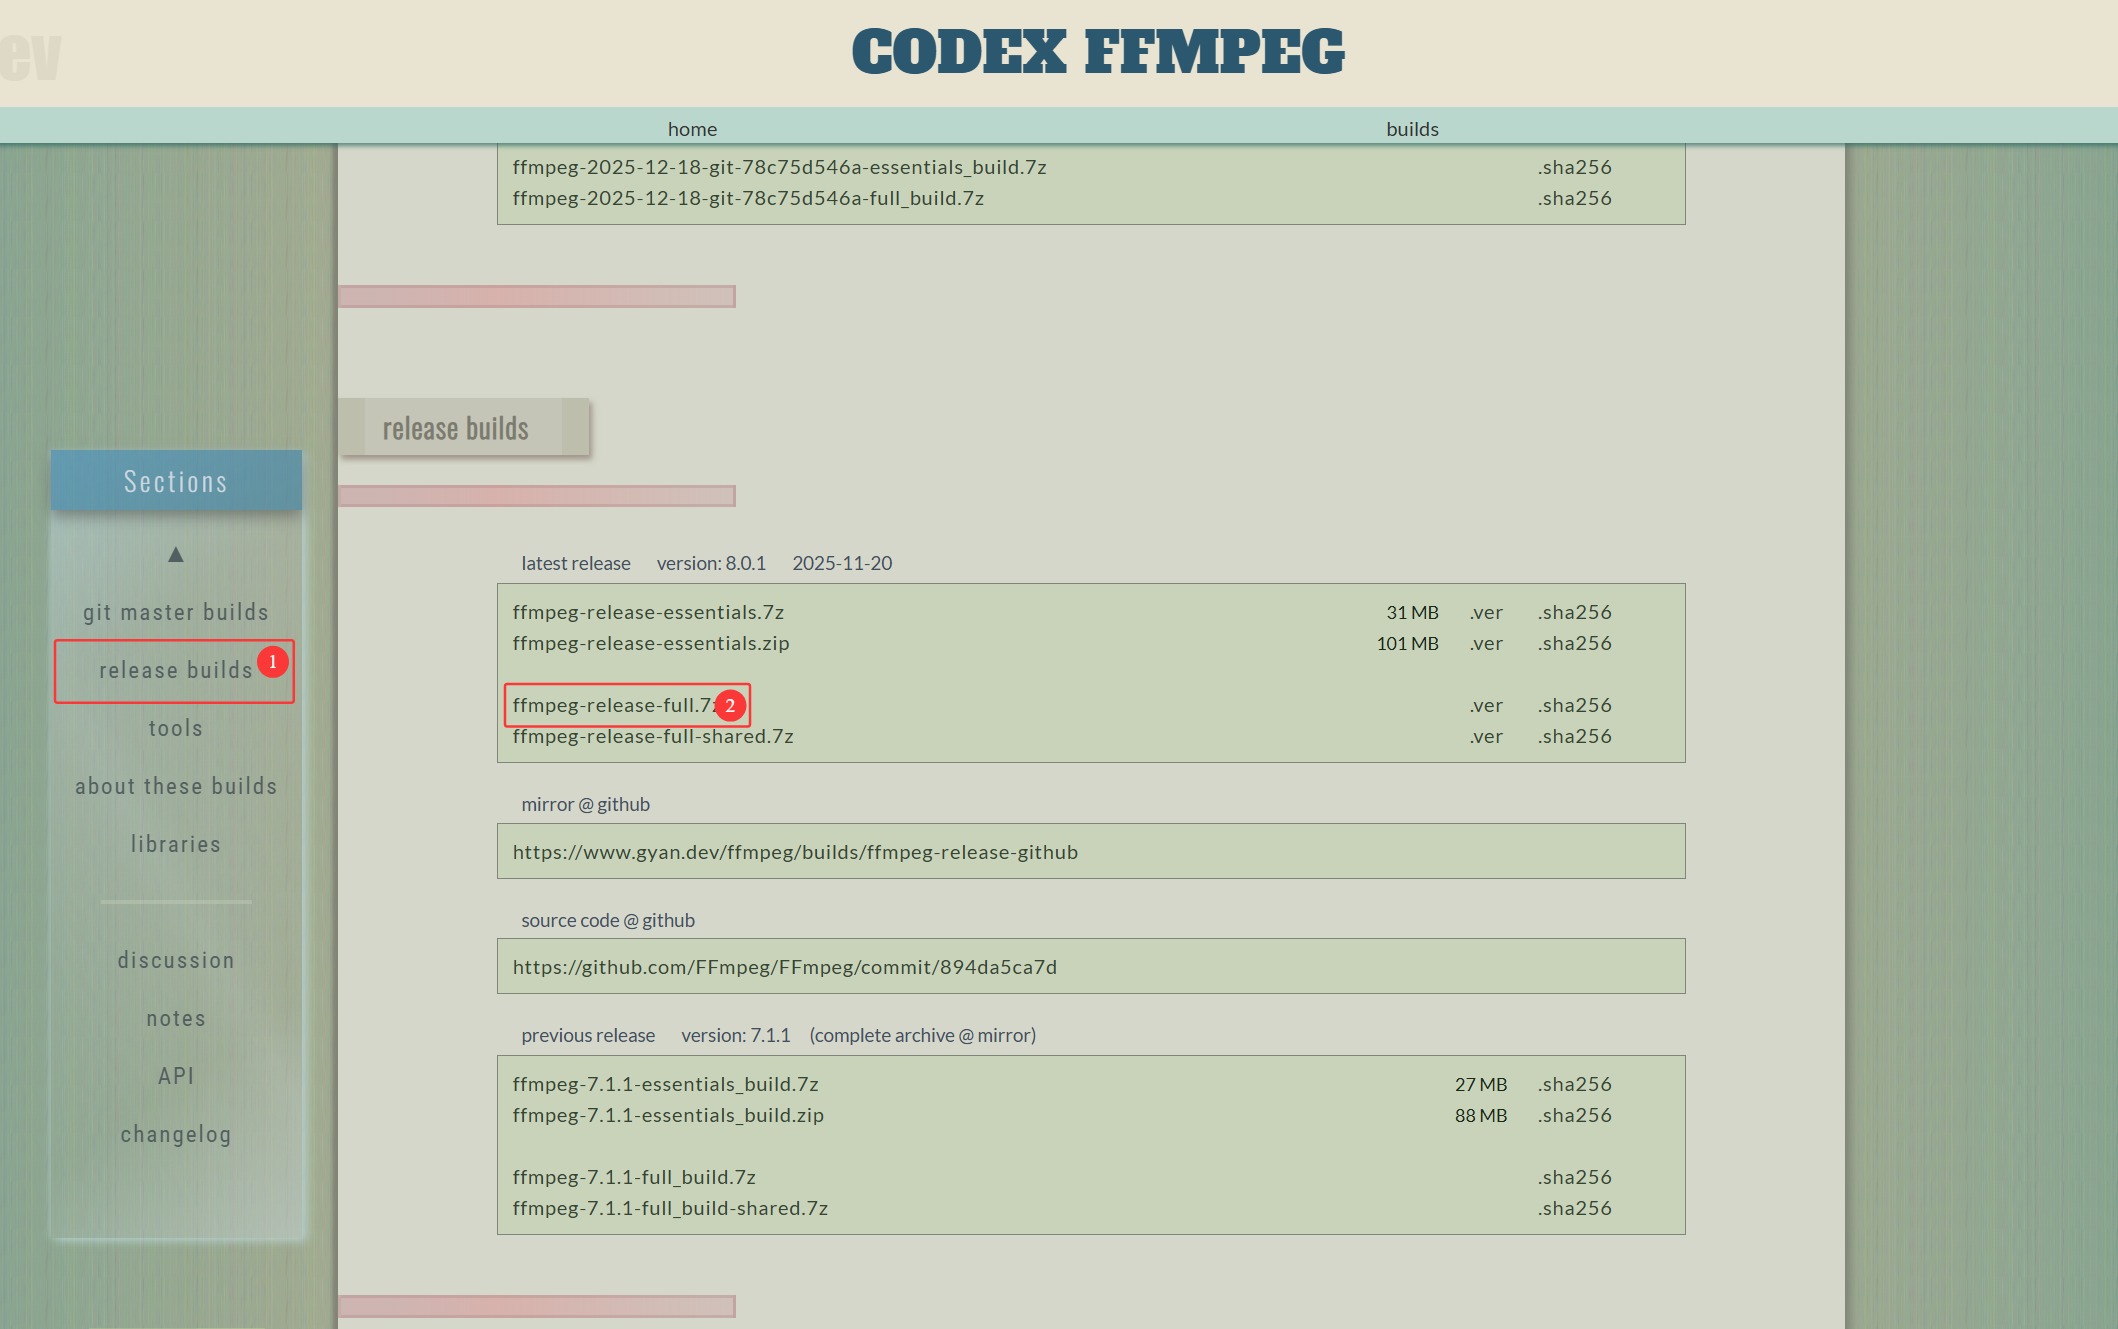
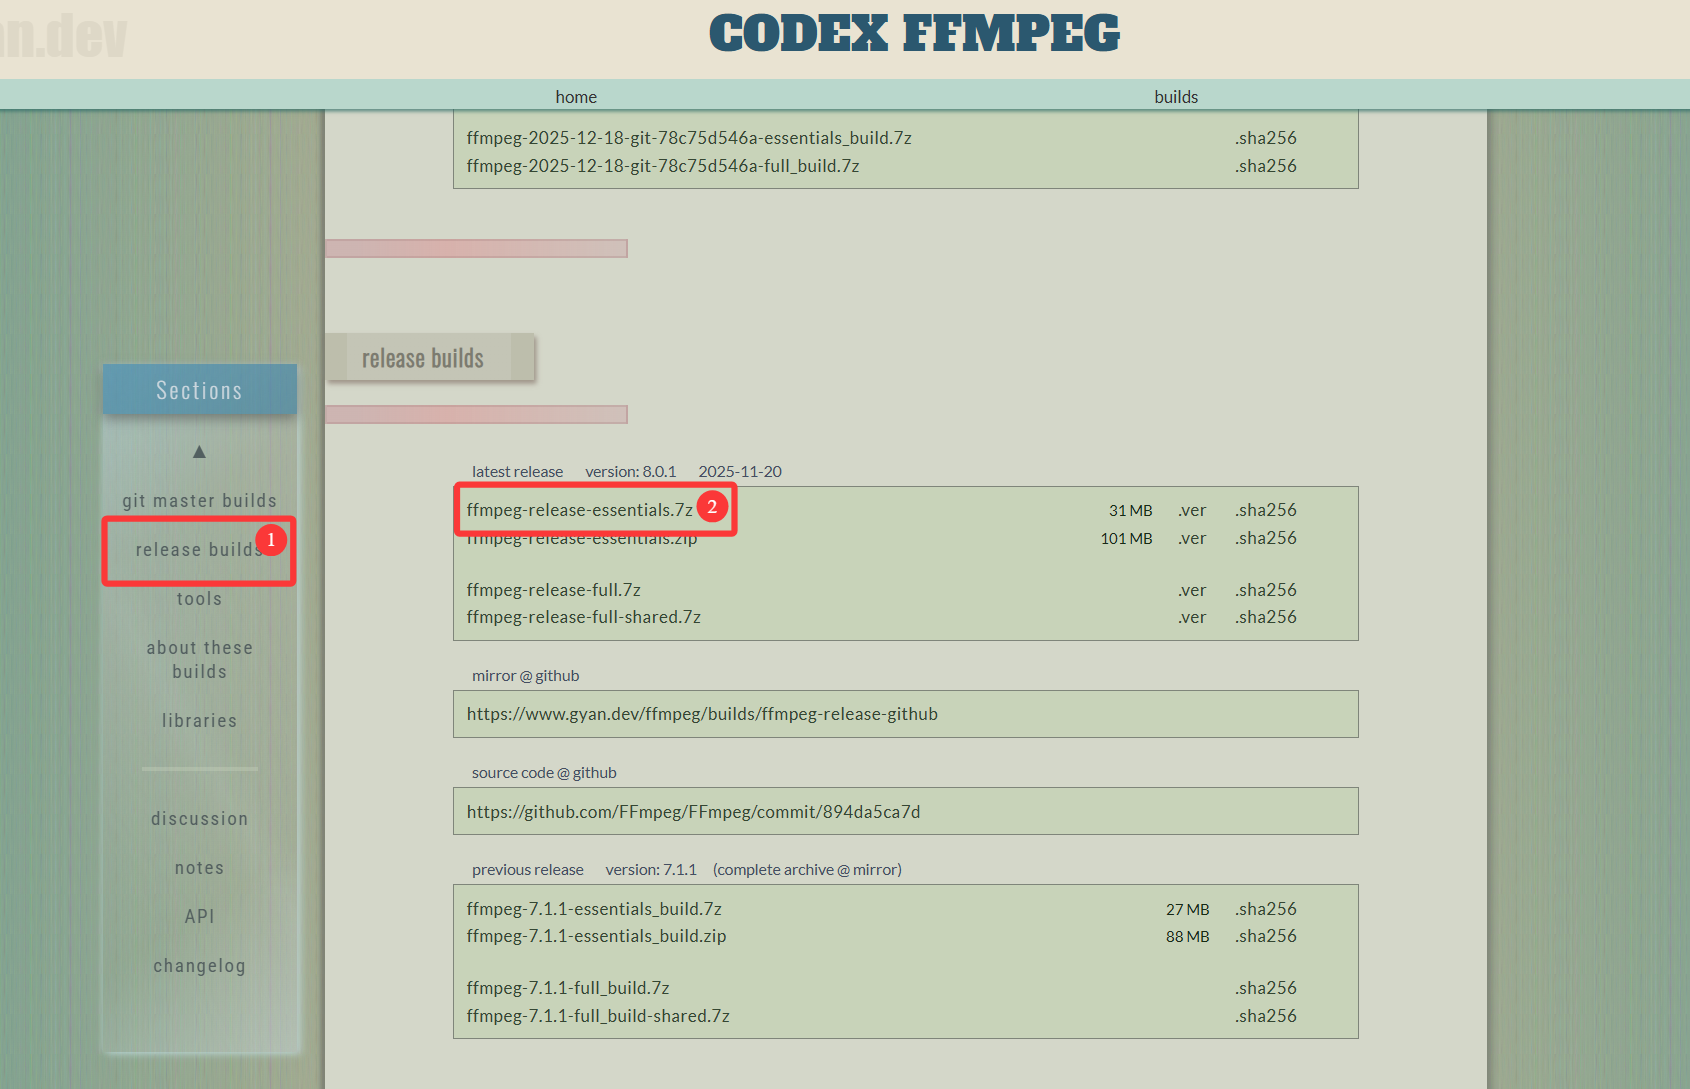
update：FFmpegGuide

diff --git a/doc/latest_doc/FFmpegInstallGuide.md b/doc/latest_doc/FFmpegInstallGuide.md
@@ -10,7 +10,7 @@
 
 	2.在页面中找到 **release builds** 区域。
 
-	3.点击下载以下文件：**ffmpeg-release-full.7z**
+	3.点击下载以下文件：**ffmpeg-release-essentials.7z**
 
 <p align="center">
   <img src="./VNEguide_img/78.png" alt="2" width="100%">
